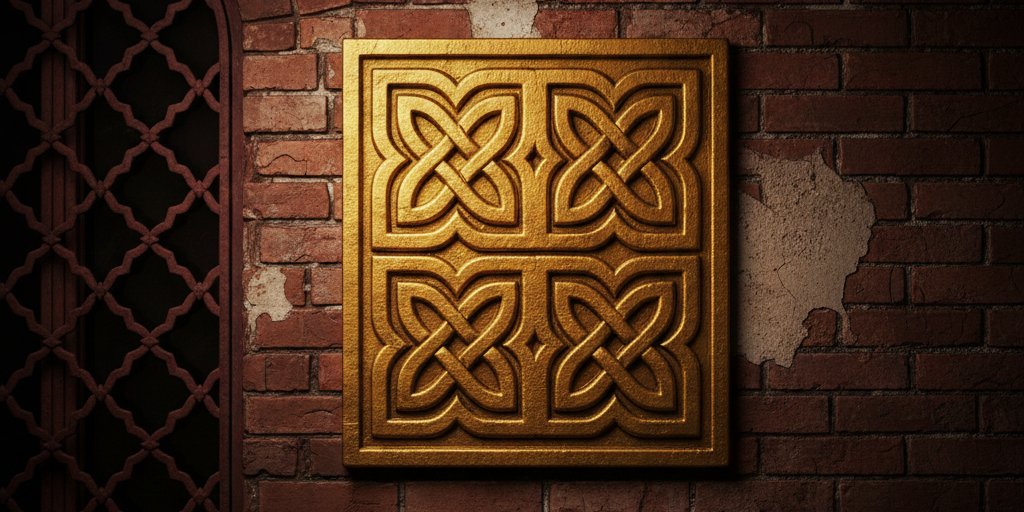
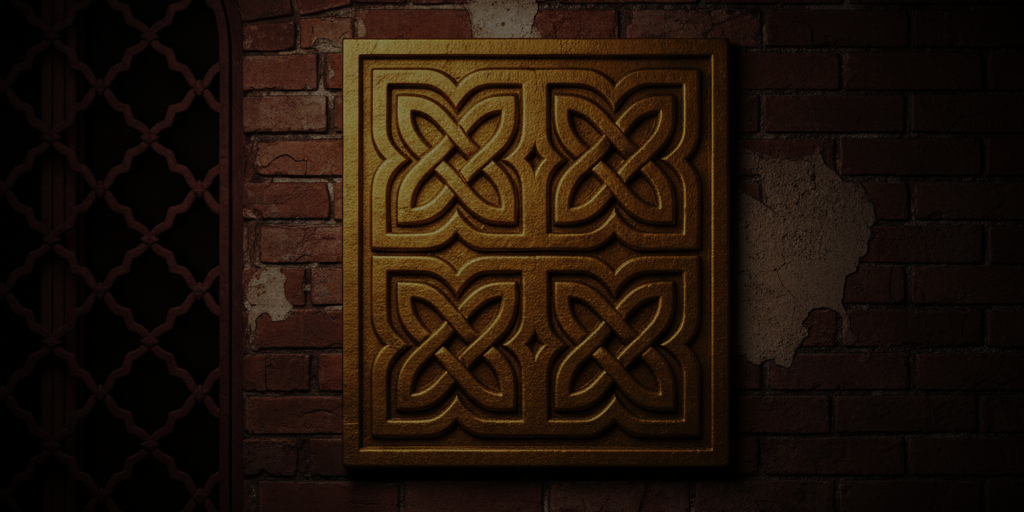
v1.2.1

diff --git a/main.html b/main.html
@@ -26,7 +26,7 @@
         </div>
         <div class="top-bar-links">
           <a href="#">ჩემი ანგარიში</a>
-          <a href="#">შემოწირულობა</a>
+          <a href="#">შემოწირულობა(მალე)</a>
         </div>
         <div class="search-box">
           <input type="text" placeholder="ძიება..." />
@@ -71,21 +71,21 @@
         </div>
         <article class="featured-article">
           <img
-            src="https://via.placeholder.com/600x500/2E1F1E/F2EBE5?text=თანამედროვე+გამოფენა"
+            src="./Assets/mitovebuliSaministrosShenobaSokhumi.webp"
             alt="Featured Article"
           />
 
           <div class="article-content">
             <span class="article-category"
-              ><i class="fas fa-book-open"></i> თანამედროვე კულტურა</span
-            >
-            <h3>მეხსიერების რესტავრაცია: არტი მიტოვებულ სივრცეებში</h3>
-            <p class="article-author">ავტორი: ელენე მელიქიშვილი</p>
+              ><i class="fas fa-book-open"></i> სოხუმის ჩრდილები
+            </span>
+            <h3>ოკუპირებული მეხსიერების არქიტექტურა</h3>
+            <p class="article-author">ავტორი: Admin</p>
             <p class="article-excerpt">
-              როგორ აქცევენ ქართველი არტისტები მიტოვებულ ინდუსტრიულ ზონებს
-              კულტურულ ჰაბებად. ახალი მულტიმედიური გამოფენა „ექო“, რომელიც
-              ყოფილი აბრეშუმის ქარხნის კედლებში გაიხსნა, წარსულისა და მომავლის
-              უწყვეტ დიალოგს გვთავაზობს...
+              აფხაზეთი და, კონკრეტულად, სოხუმი, ყოველთვის იყო ადგილი, სადაც
+              სხვადასხვა კულტურა, ეპოქა და არქიტექტურული სტილი იდეალურად
+              ერწყმოდა ერთმანეთს. ევროპული მოდერნი, ნეოგოთიკა და ადგილობრივი
+              რიტმი ქმნიდა უნიკალურ ურბანულ ქსოვილს...
             </p>
             <a href="#" class="read-more">სრულად წაკითხვა</a>
           </div>
@@ -97,7 +97,7 @@
         <div class="blog-grid">
           <div class="blog-card">
             <img
-              src="https://via.placeholder.com/400x300/4F4242/F2EBE5?text=ბლოგი+1"
+              src="./Assets/Bedias_Barzimi.jpg"
               alt="Blog"
             />
             <h4>ბედიას ბარძიმის საიდუმლო</h4>
@@ -106,7 +106,7 @@
           </div>
           <div class="blog-card">
             <img
-              src="https://via.placeholder.com/400x300/4F4242/F2EBE5?text=ბლოგი+2"
+              src="./Assets/Ikorta1.jpg"
               alt="Blog"
             />
             <h4>იკორთას ჩუქურთმები</h4>
@@ -115,7 +115,7 @@
           </div>
           <div class="blog-card">
             <img
-              src="https://via.placeholder.com/400x300/4F4242/F2EBE5?text=ბლოგი+3"
+              src="./Assets/Mokvi_Bible1.jpg"
               alt="Blog"
             />
             <h4>მოქვის სახარება</h4>
@@ -149,8 +149,8 @@
             />
             <h4>მთიულური ხინკალი</h4>
             <p>
-              ცომის მოხარშული ქისები ხორცის წვენით — უძველესი ტრადიცია საქართველოს
-              მთიანეთიდან.
+              ცომის მოხარშული ქისები ხორცის წვენით — უძველესი ტრადიცია
+              საქართველოს მთიანეთიდან.
             </p>
             <a href="#" class="read-more">ვრცლად</a>
           </div>
@@ -182,11 +182,13 @@
                   color: var(--clr-gold-1);
                   font-family: var(--font-text-en);
                 "
-                >EPISODE 12</span
+                >EPISODE 1</span
               >
-              <h3>საუბრები ქვაზე და ლითონზე</h3>
+              <h3>საუბრები წინაპრების დანატოვარზე</h3>
               <p style="color: var(--clr-br-4)">
-                სტუმარი: პროფესორი გიორგი მაკალათია
+                პოდკასტი მალე გამოდის! პირველ ეპიზოდში ვესაუბრებით ისტორიკოსებს
+                და არქეოლოგებს საქართველოს უძველესი დასახლებების შესახებ. დარჩით
+                ჩვენთან, რომ არ გამოტოვოთ!
               </p>
             </div>
           </div>
@@ -200,7 +202,7 @@
         <div class="store-grid">
           <div class="product-card">
             <img
-              src="https://via.placeholder.com/300x400/D6D1D1/2E1F1E?text=ჟურნალი+N1"
+              src="./Assets/Gamocema1.png"
               alt="Product"
             />
             <h4>გამოცემა N1</h4>
@@ -208,7 +210,7 @@
           </div>
           <div class="product-card">
             <img
-              src="https://via.placeholder.com/300x400/D6D1D1/2E1F1E?text=ჩანთა"
+              src="./Assets/ToteBag.png"
               alt="Product"
             />
             <h4>Tote Bag ლოგოთი</h4>
@@ -216,15 +218,15 @@
           </div>
           <div class="product-card">
             <img
-              src="https://via.placeholder.com/300x400/D6D1D1/2E1F1E?text=პოსტერი"
+              src="./Assets/cap.png"
               alt="Product"
             />
-            <h4>იკორთას პოსტერი</h4>
-            <p class="product-price">₾ 15.00</p>
+            <h4>კეპი ლოგოთი</h4>
+            <p class="product-price">₾ 25.00</p>
           </div>
           <div class="product-card">
             <img
-              src="https://via.placeholder.com/300x400/D6D1D1/2E1F1E?text=ჟურნალი+N2"
+              src="./Assets/Gamocema2.png"
               alt="Product"
             />
             <h4>გამოცემა N2 (წინასწარი)</h4>
@@ -237,24 +239,24 @@
         </div>
         <div class="events-list">
           <div class="event-item">
-            <div class="event-date">15 მარ.</div>
+            <div class="event-date">მალე</div>
             <div class="event-details">
               <h4>საჯარო ლექცია: ოქრომჭედლობის საიდუმლოებები</h4>
               <p style="color: var(--clr-br-3); font-size: 0.9rem">
                 <i class="fas fa-map-marker-alt"></i> თბილისის ისტორიის მუზეუმი
               </p>
             </div>
-            <a href="#" class="read-btn">ბილეთები</a>
+            <a href="#" class="read-btn">დეტალები(მალე)</a>
           </div>
           <div class="event-item">
-            <div class="event-date">22 აპრ.</div>
+            <div class="event-date">მალე</div>
             <div class="event-details">
               <h4>გამოფენა: დაკარგული ხელნაწერები</h4>
               <p style="color: var(--clr-br-3); font-size: 0.9rem">
                 <i class="fas fa-map-marker-alt"></i> ეროვნული ბიბლიოთეკა
               </p>
             </div>
-            <a href="#" class="read-btn">დეტალები</a>
+            <a href="#" class="read-btn">დეტალები(მალე)</a>
           </div>
         </div>
 
@@ -276,7 +278,7 @@
             თქვენი შემოწირულობა გვეხმარება გავაგრძელოთ დამოუკიდებელი კვლევები და
             გამოვცეთ ახალი ჟურნალები.
           </p>
-          <a href="#" class="donate-btn-large">გაიღე დონაცია</a>
+          <a href="#" class="donate-btn-large">გაიღე დონაცია(მალე)</a>
         </section>
       </div>
     </main>

diff --git a/CSS/main_style.css b/CSS/main_style.css
@@ -98,7 +98,7 @@ body {
 /* ================== მთავარი ჰერო და ლოგო ================== */
 .hero-section {
     background-color: #2A1B1A; /* ჰედერზე ოდნავ მუქი ფერი */
-    background-image: url('../Assets/tbilisi-history.jpg');
+    background-image: url('../Assets/BackgroundMain.png') , linear-gradient(rgba(31, 14, 14, 0.696), rgba(0, 0, 0, 0.715));
     background-size: contain;
     background-position: center;
     background-repeat: no-repeat;
